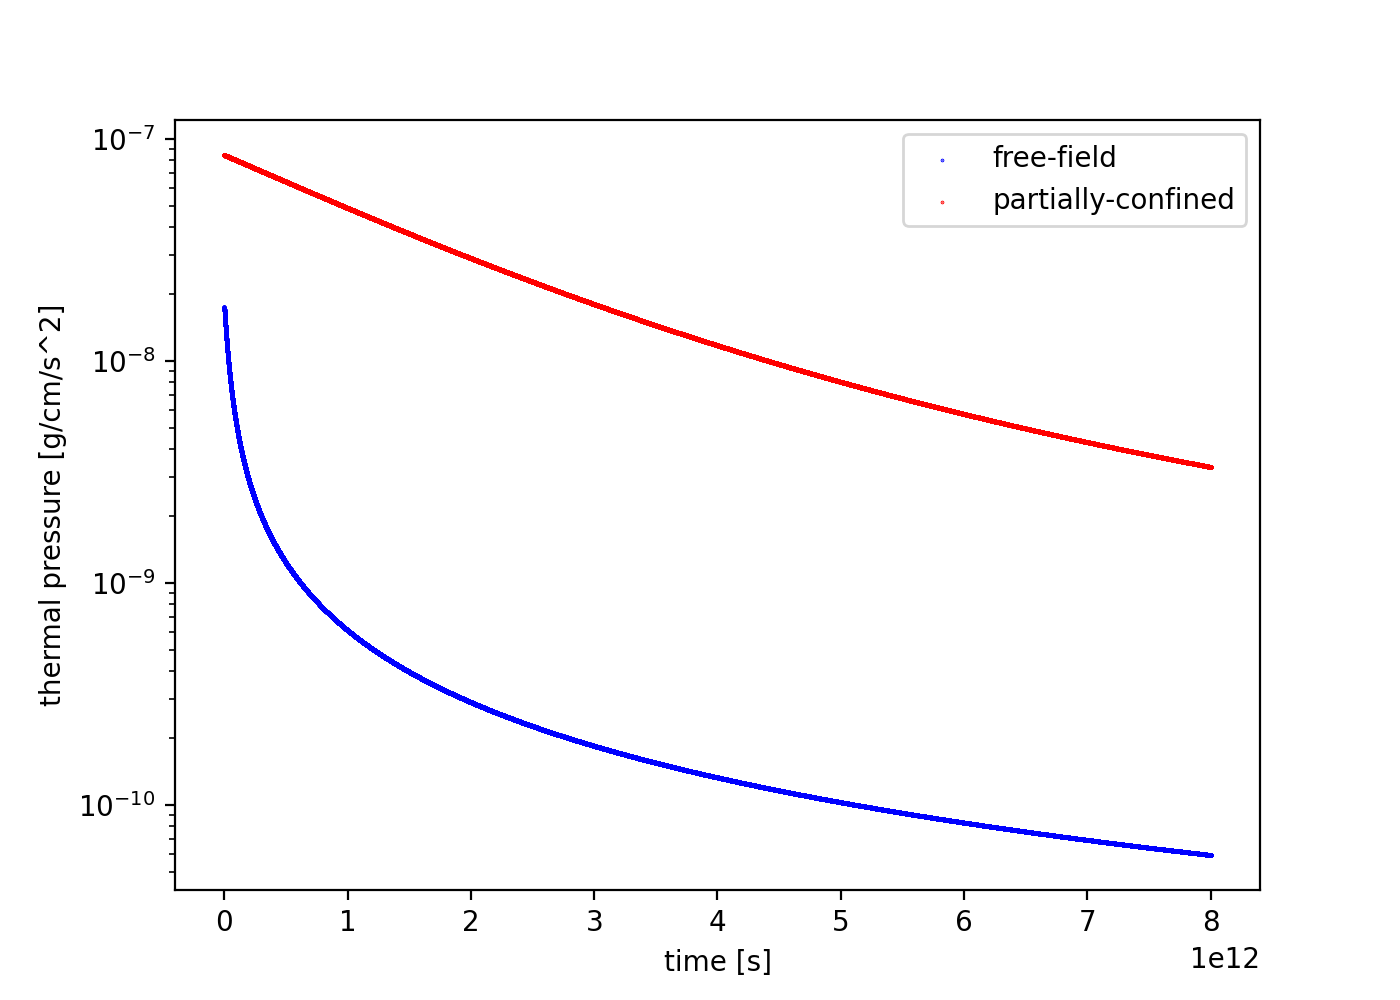
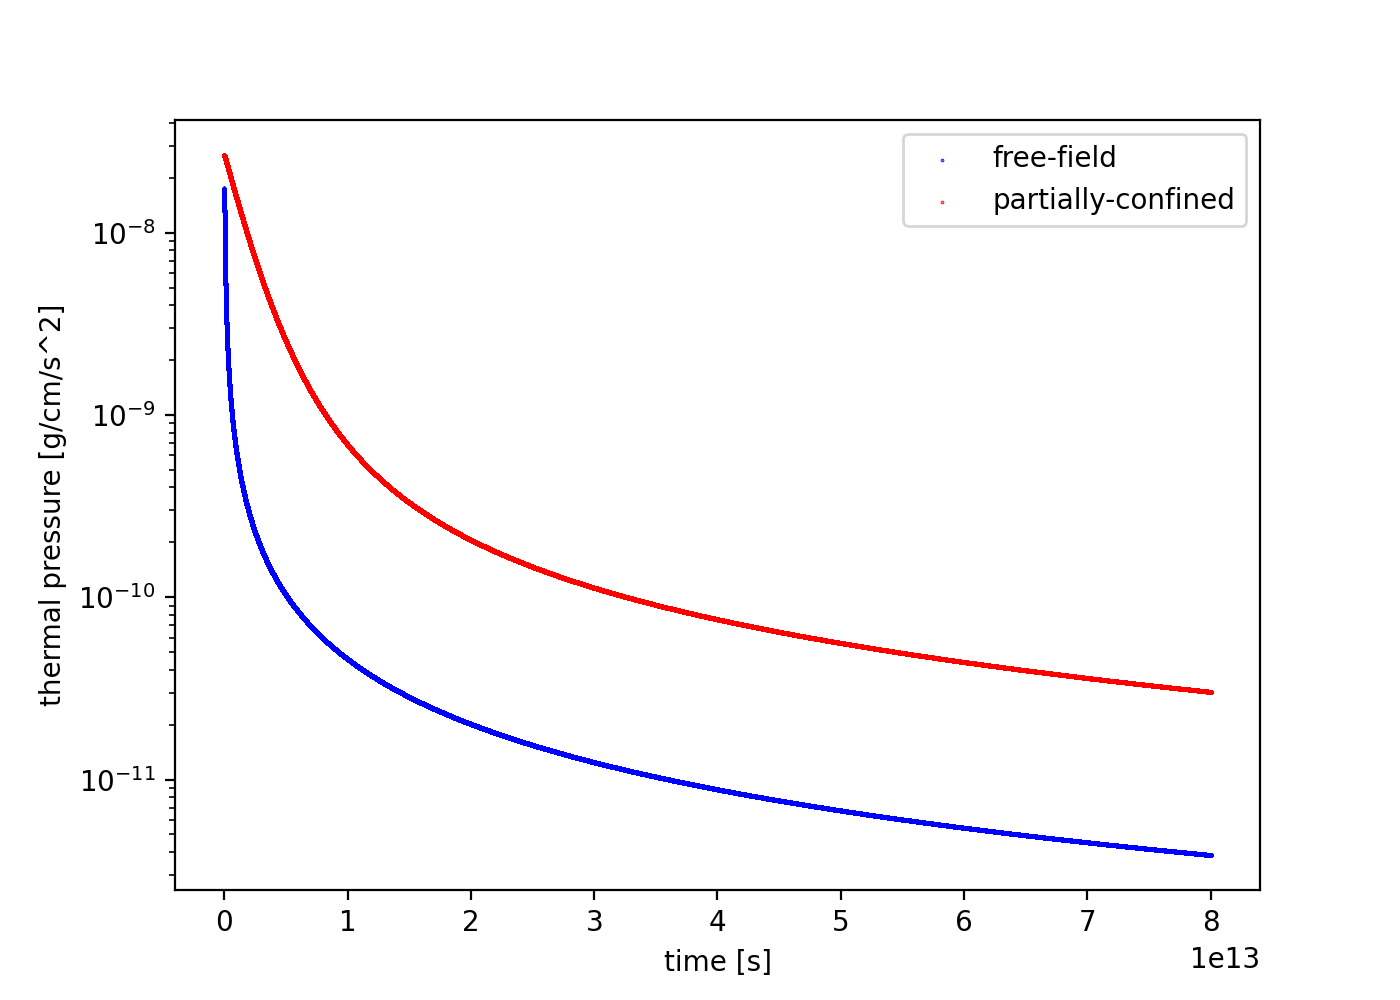
new method for updating p rho semi-confined model

diff --git a/python_scripts/analytical_models/freefield_vented_sn_model.py b/python_scripts/analytical_models/freefield_vented_sn_model.py
@@ -27,7 +27,7 @@ def get_pressure(rho,temp):
 
 # Sedov is a self-similar solution, here we'll put everything in cgs units 
 
-t_end = 8.0E12                  # sim end time 
+t_end = 8.0E13                  # sim end time 
 dt = 1E7                        # timestep 
 
 r_detect = 8. *3.086e+18        # location of detector 
@@ -56,7 +56,7 @@ rho_env = 4e-25                 # density of envelope
 p_env = get_pressure(rho_env,1e3)
 
 rho_ffbg = 1e-23                # Medium density for free-field case 
-p_ffbg = get_pressure(rho_ffbg,1e3)
+p_ffbg = get_pressure(rho_ffbg,1e2)
 
 omega = 4*np.pi*0.1             # solid angle of channell in Sr
 sout_fac = 1 
@@ -232,6 +232,8 @@ def part_confined_sn(with_HII,expand_cav,ax1,ax2,ax3):
 
     while(t < t_end): 
         # Update velocity of escaping gas
+        if (niter == 0):
+            print('calc v: p_env,rho_env,p_cav',p_env,rho_env,p_cav)
         v_out = np.sqrt(2*gamma/(gamma-1)*p_env/rho_env*(((p_cav)/p_env)**((gamma-1)/gamma)-1))  # bernoulli
 
         # Update mass contained within cavity 
@@ -258,6 +260,7 @@ def part_confined_sn(with_HII,expand_cav,ax1,ax2,ax3):
         ramp_vent = rho_vent * v_out**2
     
         if (niter == 0):
+            print('first vout',v_out)
             print('first rho p cav',rho_vent,p_cav)
             print('first m_cav r_cav vol_cav',m_cav,r_cav,vol_cav)
 
@@ -270,11 +273,16 @@ def part_confined_sn(with_HII,expand_cav,ax1,ax2,ax3):
         if (expand_sout):
             s_out = s_out*1.00001
 
+        # Detector is at the middle of the channel 
+        rho_mid = (rho_vent+rho_env)/2
+        p_mid = p_env*(rho_mid/rho_env)**gamma
+        ramp_mid = rho_mid * v_out**2
+
         t = t + dt 
         time.append(t)
         v_vent_evol.append(v_out)
-        p_vent_evol.append(p_cav)
-        ramp_vent_evol.append(ramp_vent)
+        p_vent_evol.append(p_mid)
+        ramp_vent_evol.append(ramp_mid)
         if (expand_cav):
             vel_cav_evol.append(vel_cav)
             r_cav_evol.append(r_cav)
